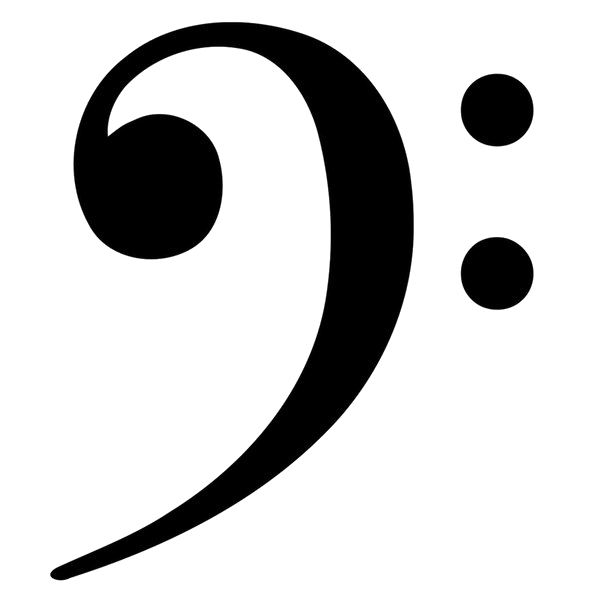
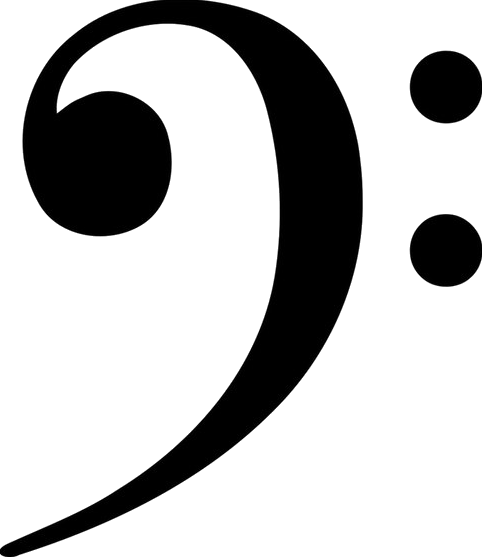
More good stuff.

Changed region(s): [[0.0, 0.0, 1.0, 1.0]]

diff --git a/src/training.py b/src/training.py
@@ -74,14 +74,12 @@ def draw_note(img, key_index, treble, sharp, color=None):
     draw_semitone(img, x, y, treble, key_index, color)
     if sharp:
         draw_sharp(img, x-30, y)
-    name = "Treble clef" if treble else "Bass clef"
-    text_x = (img.shape[1] // 2 - 100)
-    text_y = 150
-    cv2.putText(img, f"Note is {name}", (text_x, text_y), cv2.QT_FONT_NORMAL, 1, (0, 0, 0), 2)
+    # name = "Treble clef" if treble else "Bass clef"
+    # text_x = (img.shape[1] // 2 - 100)
+    # text_y = 150
+    # cv2.putText(img, f"Note is {name}", (text_x, text_y), cv2.QT_FONT_NORMAL, 1, (0, 0, 0), 2)
 
 def overlay_img(img_1, img_2, x, y):
-    h, w = img_2.shape[:2]
-
     y1, y2 = y, y + img_2.shape[0]
     x1, x2 = x, x + img_2.shape[1]
 
@@ -109,20 +107,35 @@ def create_image(size):
         cv2.line(img, (x, int(h / 2 - (4 * SPACE_BETWEEN + VERTICAL_GAP))),
                  (x, int(h / 2 + (4 * SPACE_BETWEEN + VERTICAL_GAP))), (0, 0, 0), 2)
 
-    treb_clef_img = cv2.resize(cv2.imread("../resources/img/treble-clef.png", -1), (72, 172))
-    bass_clef_img = cv2.resize(cv2.imread("../resources/img/bass-clef.png", -1), (82, 82))
+    treb_clef_img = cv2.imread("../resources/img/treble-clef.png", -1)
+    treb_clef_img = cv2.resize(treb_clef_img, (62, int(SPACE_BETWEEN*6.8)))
+    bass_clef_img = cv2.imread("../resources/img/bass-clef.png", -1)
+    bass_clef_img = cv2.resize(bass_clef_img, (62, int(SPACE_BETWEEN*3.1)))
     img = overlay_img(img, treb_clef_img, PADDING_X + 10, int(h / 2 - SPACE_BETWEEN * 7.25))
-    img = overlay_img(img, bass_clef_img, PADDING_X + 5, int(h / 2 + SPACE_BETWEEN * 1.95))
+    img = overlay_img(img, bass_clef_img, PADDING_X + 10, int(h / 2 + SPACE_BETWEEN * 2))
 
     return img
+
+def get_countdown_color(progress):
+    r_lo = 30
+    g_lo = 80
+    b_lo = 200
+    r_hi = 220
+    g_hi = 20
+    b_hi = 30
+    red = r_lo + (r_hi - r_lo) * progress
+    green = g_lo + (g_hi - g_lo) * progress
+    blue = b_lo + (b_hi - b_lo) * progress
+    return (blue, green, red)
 
 def draw_countdown(img, progress):
     offset_x = PADDING_X
     max_width = img.shape[1] - (PADDING_X * 2)
     width = int(progress * max_width)
-    y = int(img.shape[0] - PADDING_X * 2)
+    y = int(img.shape[0] - PADDING_X)
+    color = get_countdown_color(progress)
     cv2.line(img, (offset_x, y), (img.shape[1] - offset_x, y), (0, 0, 0), 12)
-    cv2.line(img, (offset_x, y), (offset_x + width, y), (200, 80, 30), 10)
+    cv2.line(img, (offset_x, y), (offset_x + width, y), color, 10)
 
 def wait_for_input(img, port, note, timelimit):
     elapsed_time = 0
@@ -144,11 +157,11 @@ def wait_for_input(img, port, note, timelimit):
         draw_countdown(img, elapsed_time / timelimit)
     return "out_of_time", 0
 
-def draw_points(img, correct, total):
+def draw_score(img, correct, total):
     point_str = "Score: " + str(correct) + "/" + str(total)
     x = img.shape[1] // 2 - (len(point_str) * 17)
-    y = PADDING_X * 2
-    cv2.putText(img, point_str, (x, y), cv2.QT_FONT_NORMAL, 2, (0, 0, 0), 5)
+    y = img.shape[0] // 6
+    cv2.putText(img, point_str, (x, y), cv2.QT_FONT_NORMAL, 2, (0, 0, 0), 4)
 
 SIZE = (1280, 720)
 CORRECT = 0
@@ -157,7 +170,6 @@ QUESTIONS = 200
 def generate_question(q_number):
     duration = 6 - (q_number / QUESTIONS) * 4
     is_treble = random.random() > 0.5
-    key = 0
     if is_treble:
         choices = [x for x in range(30, 88)]
         weights = np.array([2 if x > 60 else 1 for x in choices])
@@ -165,8 +177,8 @@ def generate_question(q_number):
         choices = [x for x in range(0, 59)]
         weights = np.array([2 if x > 30 else 1 for x in choices])
     weights = weights / sum(weights)
-    key = np.random.choice(choices, size=1, p=weights)
-    return key[0], is_treble, duration
+    note = np.random.choice(choices, size=1, p=weights)[0]
+    return note, is_treble, duration
 
 # test_key = 43
 # print(util.get_note_desc(test_key))
@@ -176,26 +188,29 @@ def generate_question(q_number):
 # cv2.imshow("Piano Quiz", IMAGE)
 # key = cv2.waitKey(0)
 
-with mido.open_input() as inport:
-    for question in range(QUESTIONS):
-        KEY, TREBLE, LIMIT = generate_question(question)
-        IMAGE = create_image(SIZE)
-        draw_points(IMAGE, CORRECT, question+1)
-        IS_SHARP = util.is_sharp(KEY)
-        SHEET_NOTE = to_sheet_key(KEY)
-        draw_note(IMAGE, SHEET_NOTE, TREBLE, IS_SHARP)
-        status, key = wait_for_input(IMAGE, inport, KEY, LIMIT*1000)
-        if status == "correct":
-            draw_note(IMAGE, SHEET_NOTE, TREBLE, IS_SHARP, (0, 255, 0))
-            CORRECT += 1
-        elif status == "wrong":
-            draw_note(IMAGE, to_sheet_key(key), TREBLE, IS_SHARP, (0, 0, 255))
-        elif status == "quit":
-            break
-        else:
-            print("TIME RAN OUT!")
+try:
+    with mido.open_input() as inport:
+        for question in range(QUESTIONS):
+            KEY, TREBLE, LIMIT = generate_question(question)
+            IMAGE = create_image(SIZE)
+            draw_score(IMAGE, CORRECT, question+1)
+            IS_SHARP = util.is_sharp(KEY)
+            SHEET_NOTE = to_sheet_key(KEY)
+            draw_note(IMAGE, SHEET_NOTE, TREBLE, IS_SHARP)
+            STATUS, NOLTE = wait_for_input(IMAGE, inport, KEY, LIMIT*1000)
+            if STATUS == "correct":
+                draw_note(IMAGE, SHEET_NOTE, TREBLE, IS_SHARP, (0, 255, 0))
+                CORRECT += 1
+            elif STATUS == "wrong":
+                draw_note(IMAGE, to_sheet_key(NOLTE), TREBLE, IS_SHARP, (0, 0, 255))
+            elif STATUS == "quit":
+                break
+            else:
+                draw_note(IMAGE, SHEET_NOTE, TREBLE, IS_SHARP, (0, 0, 255))
 
-        cv2.imshow("Piano Quiz", IMAGE)
-        key = cv2.waitKey(1500)
-        if key == ord('q'):
-            break
+            cv2.imshow("Piano Quiz", IMAGE)
+            KEY = cv2.waitKey(1500)
+            if KEY == ord('q'):
+                break
+except OSError:
+    print("Error: No digital piano detected, please connect one.")
